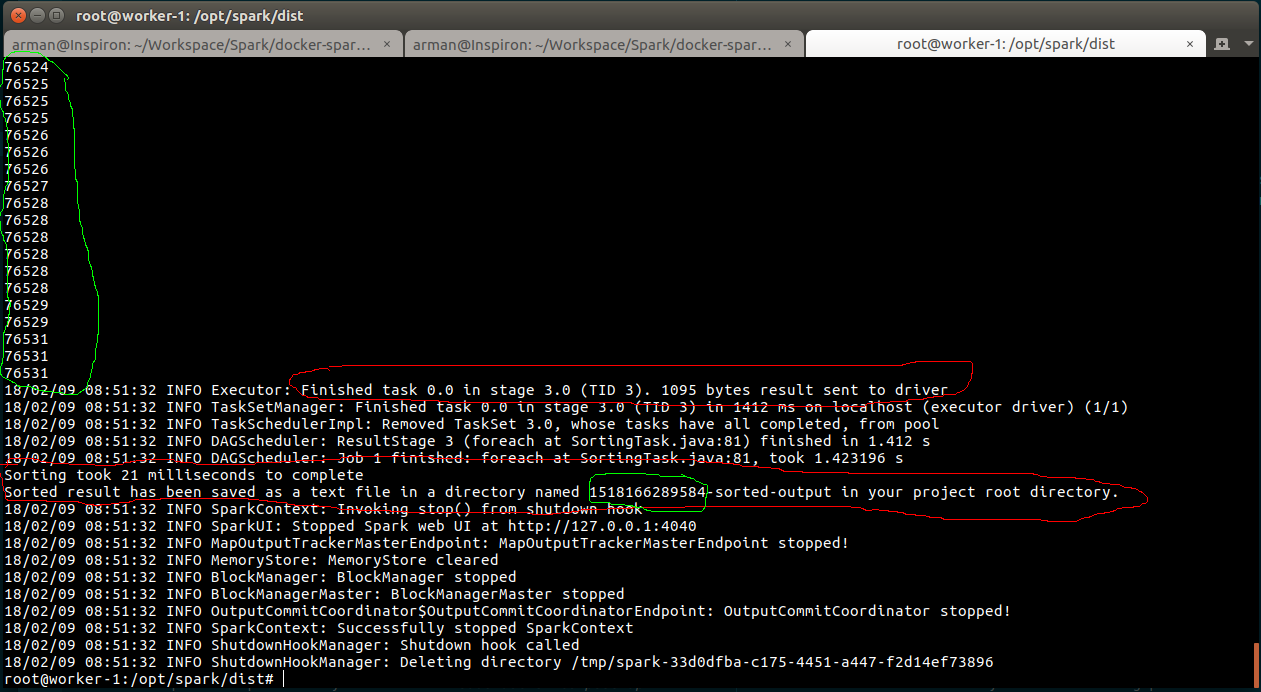
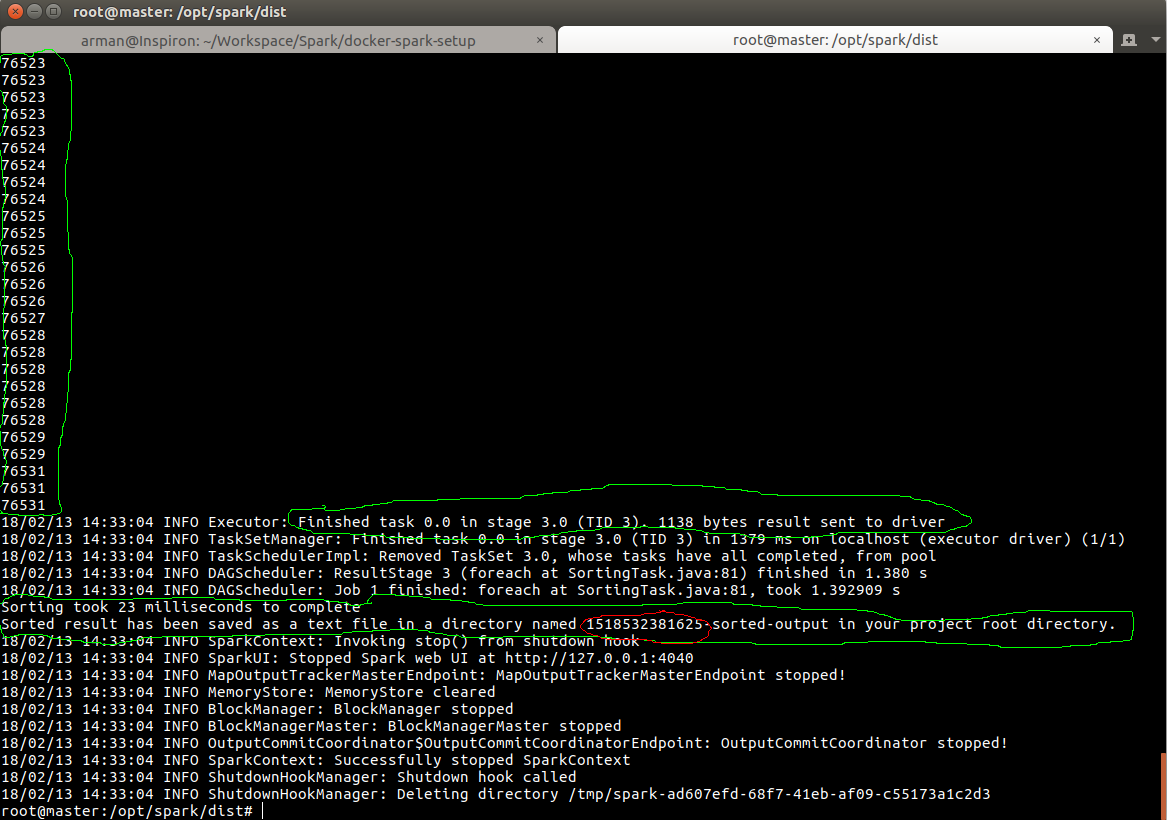
Update Readme file

Changed region(s): [[0.0, 0.0, 1.0, 1.0]]

diff --git a/README.md b/README.md
@@ -22,7 +22,7 @@ The idea is to demonstrate how to to setup an apache spark environment with dock
 1. Pull Docker Image From DockerHub: Open a terminal and run this command `sudo docker pull mesosphere/spark` .
 This may take a while to download the spark docker image.
 2. Test Image Download: When image download completes, run this command `sudo docker images` .
-If your screen looks like the screen shot below, that means you have successfully downloaded the spark docker image on your machine.
+If your screen looks like the screenshot below, that means you have successfully downloaded the spark docker image on your machine.
 ![Docker Images](/screenshots/sp1.jpg)
 
 3. Clone docker-spark-setup Repo: Open another terminal and run this git command `git clone https://github.com/arman37/docker-spark-setup.git` .
@@ -30,40 +30,40 @@ After cloning completes, cd to docker-spark-setup directory ( `cd docker-spark-s
 
 4. Packaging Driver Program: If you skipped prerequisite step 3, skip this step too. Otherwise follow along.
 cd to driver-apps/java ( `cd driver-apps/java` ). After that, run maven command `mvn test` .
-If your screen looks like the screen shot below, that means your maven test command successfully executed.
+If your screen looks like the screenshot below, that means your maven test command successfully executed.
 ![maven build](/screenshots/sp2.png)
 
 After that, run maven command `mvn package` .
-your screen should look like the screen shot below
+your screen should look like the screenshot below
 ![maven package](/screenshots/sp3.png)
 
 5. Running Docker Compose: If you followed step 4 then cd back to docker-spark-setup directory ( `cd ../..` ).
-From docker-spark-setup directory run command `sudo docker-compose up` . Please make sure no other service on your machine using port 8080.
-This command will run three docker container on your machine, your screen should look like the screen shot below
+From docker-spark-setup directory run command `sudo docker-compose up` . Please make sure no other service on your machine using ports 8080, 4040, 8881, 8882.
+This command will run three docker container on your machine, your screen should look like the screenshot below
 ![maven package](/screenshots/sp4.png)
 
 To check running docker containers run this command `sudo docker ps` .
-your screen should look like the screen shot below
+your screen should look like the screenshot below
 ![maven package](/screenshots/sp5.png)
 
-6. Open Container spark-worker-1 Bash: From any terminal run command `sudo docker exec -ti spark-worker-1 bash` .
-your screen should look like the screen shot below
+6. Open Container spark-master Bash: From any terminal run command `sudo docker exec -ti spark-master bash` .
+your screen should look like the screenshot below
 ![maven package](/screenshots/sp6.png)
 
-7. Deploy Driver App: From that terminal run this command `./bin/spark-submit --class com.dsi.spark.SortingTask /usr/spark-2.2.1/jars/sorting-1.0-SNAPSHOT.jar /usr/spark-2.2.1/test/resources/random-numbers.txt` .
-your screen should look like the screen shot below
+7. Deploy Driver App: To ensure the driver application is deployed on the worker nodes (cluster), we should supply the URL of the spark master node. From that terminal run this command `./bin/spark-submit --class com.dsi.spark.SortingTask --master spark://master:7077 /usr/spark-2.2.1/jars/sorting-1.0-SNAPSHOT.jar /usr/spark-2.2.1/test/resources/random-numbers.txt` .
+your screen should look like the screenshot below
 ![maven package](/screenshots/sp7.png)
 
 Here we have sorted 100,000 numbers of random integer values ranging from 13 to 76,531 and saved the sorted numbers to a directory named [some-random-numbers]-sorted-output in dist directory.
 
 8. Test Sorting Result: From the same terminal run command `ls` .
-you'll see a directory named [some-random-numbers]-sorted-output. cd to this directory ( like `cd 1518166289584-sorted-output` ).
+you'll see a directory named [some-random-numbers]-sorted-output. cd to this directory ( like `cd 1518533118918-sorted-output/` ).
 Into that directory you'll see part-00000 text file.
-your screen should look like the screen shot below
+your screen should look like the screenshot below
 ![maven package](/screenshots/sp8.png)
 
 Now run this command `cat part-00000` .
-your screen should look like the screen shot below
+your screen should look like the screenshot below
 ![maven package](/screenshots/sp9.png)
 
 Congratulations!!! you have successfully deployed a spark driver application. (Y) :)
